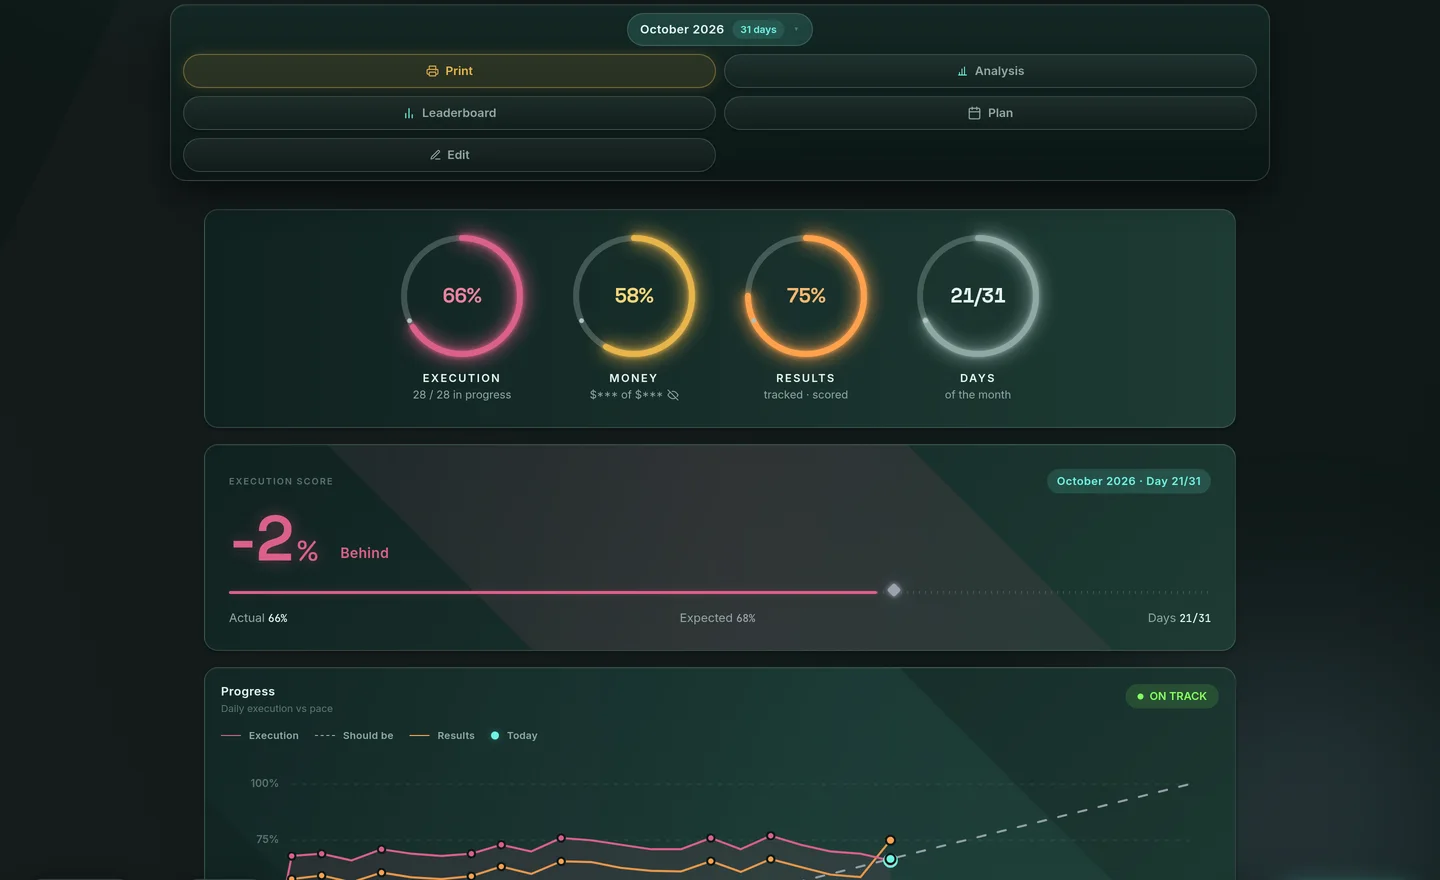
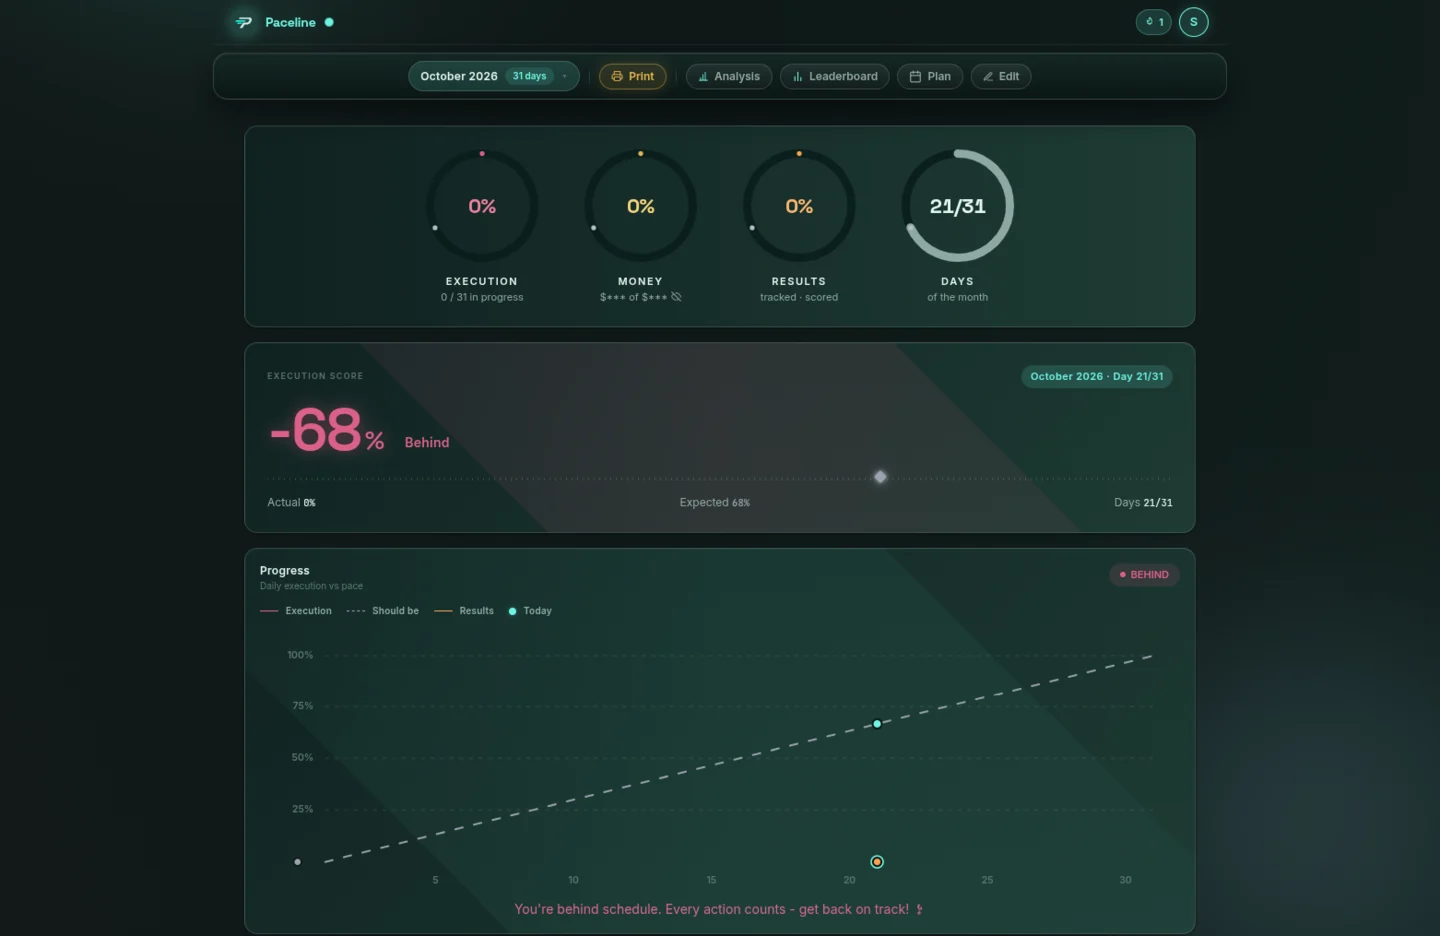
Use the top of the desktop tracker capture supplied on 101.png in the landing hero

diff --git a/src/pages/Landing.jsx b/src/pages/Landing.jsx
@@ -199,13 +199,13 @@ function RealScreens() {
             src={SHOT_DESKTOP}
             alt="The Paceline dashboard: rings for execution, money, results and days, the pace chart, and this month's goal cards."
             width="1440"
-            height="880"
+            height="936"
             loading="lazy"
             decoding="async"
             onLoad={() => setDesktopReady(true)}
             className="hidden h-auto w-full sm:block"
             style={{
-              aspectRatio: "1440 / 880",
+              aspectRatio: "1440 / 936",
               opacity: desktopReady ? 1 : 0,
               transition: "opacity 0.45s ease",
             }}
